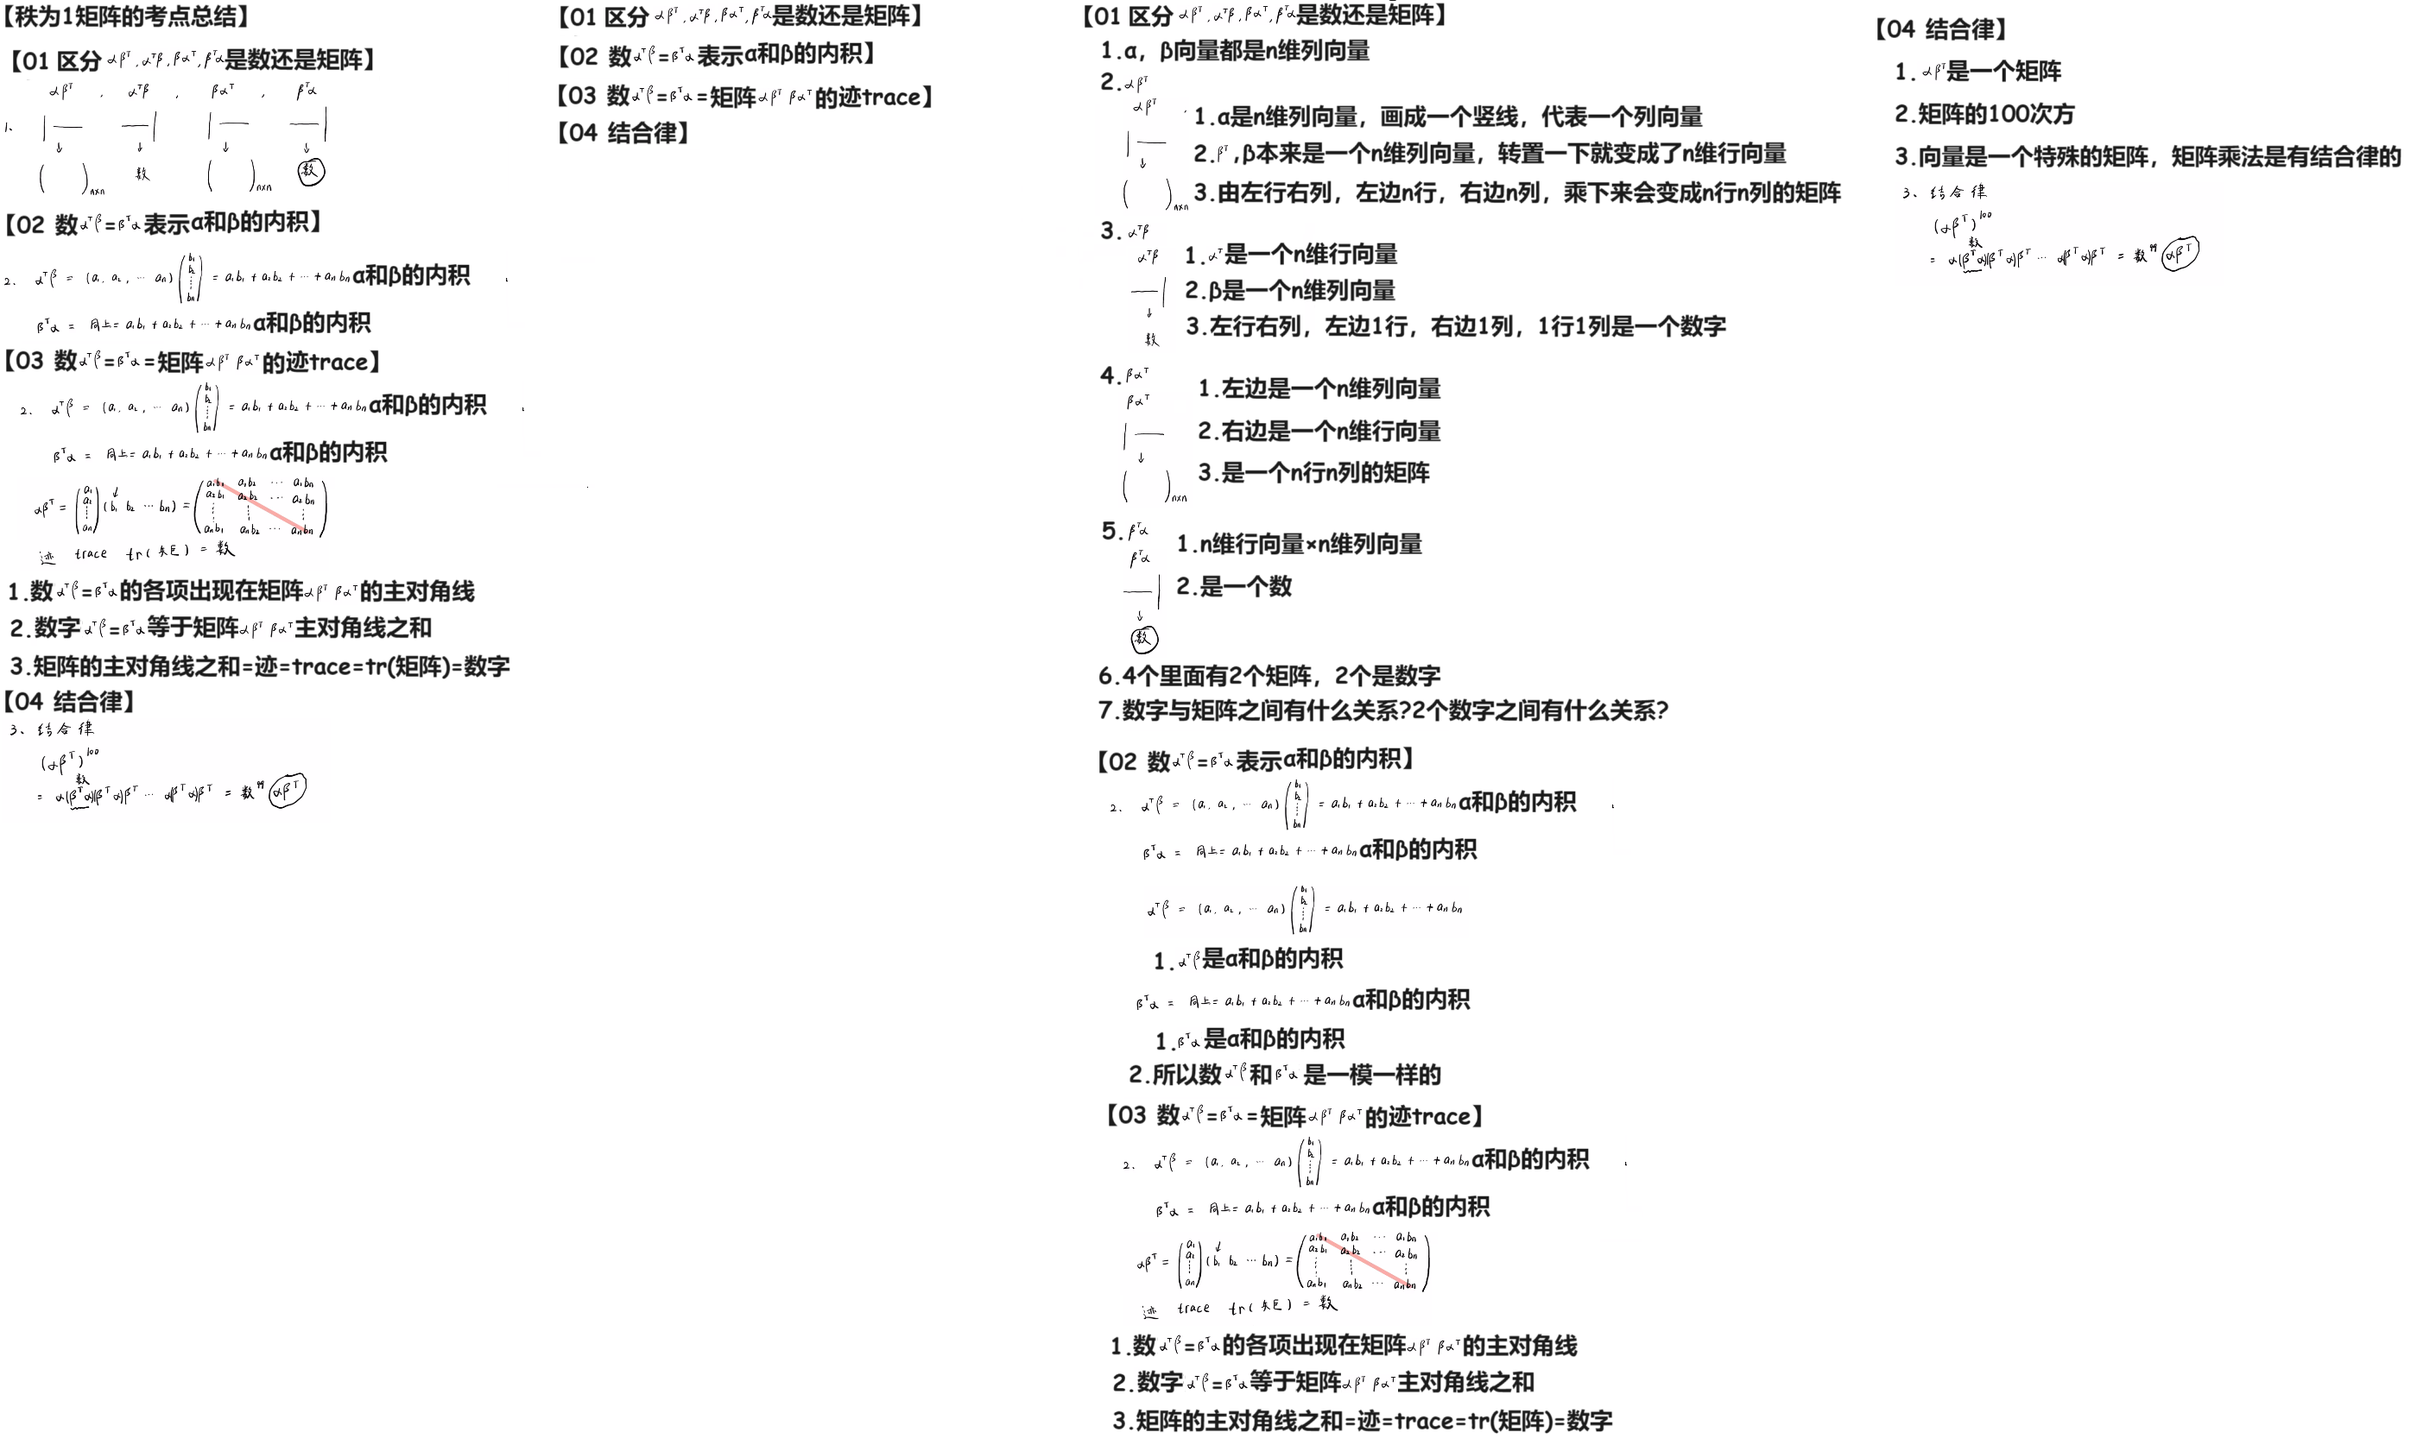
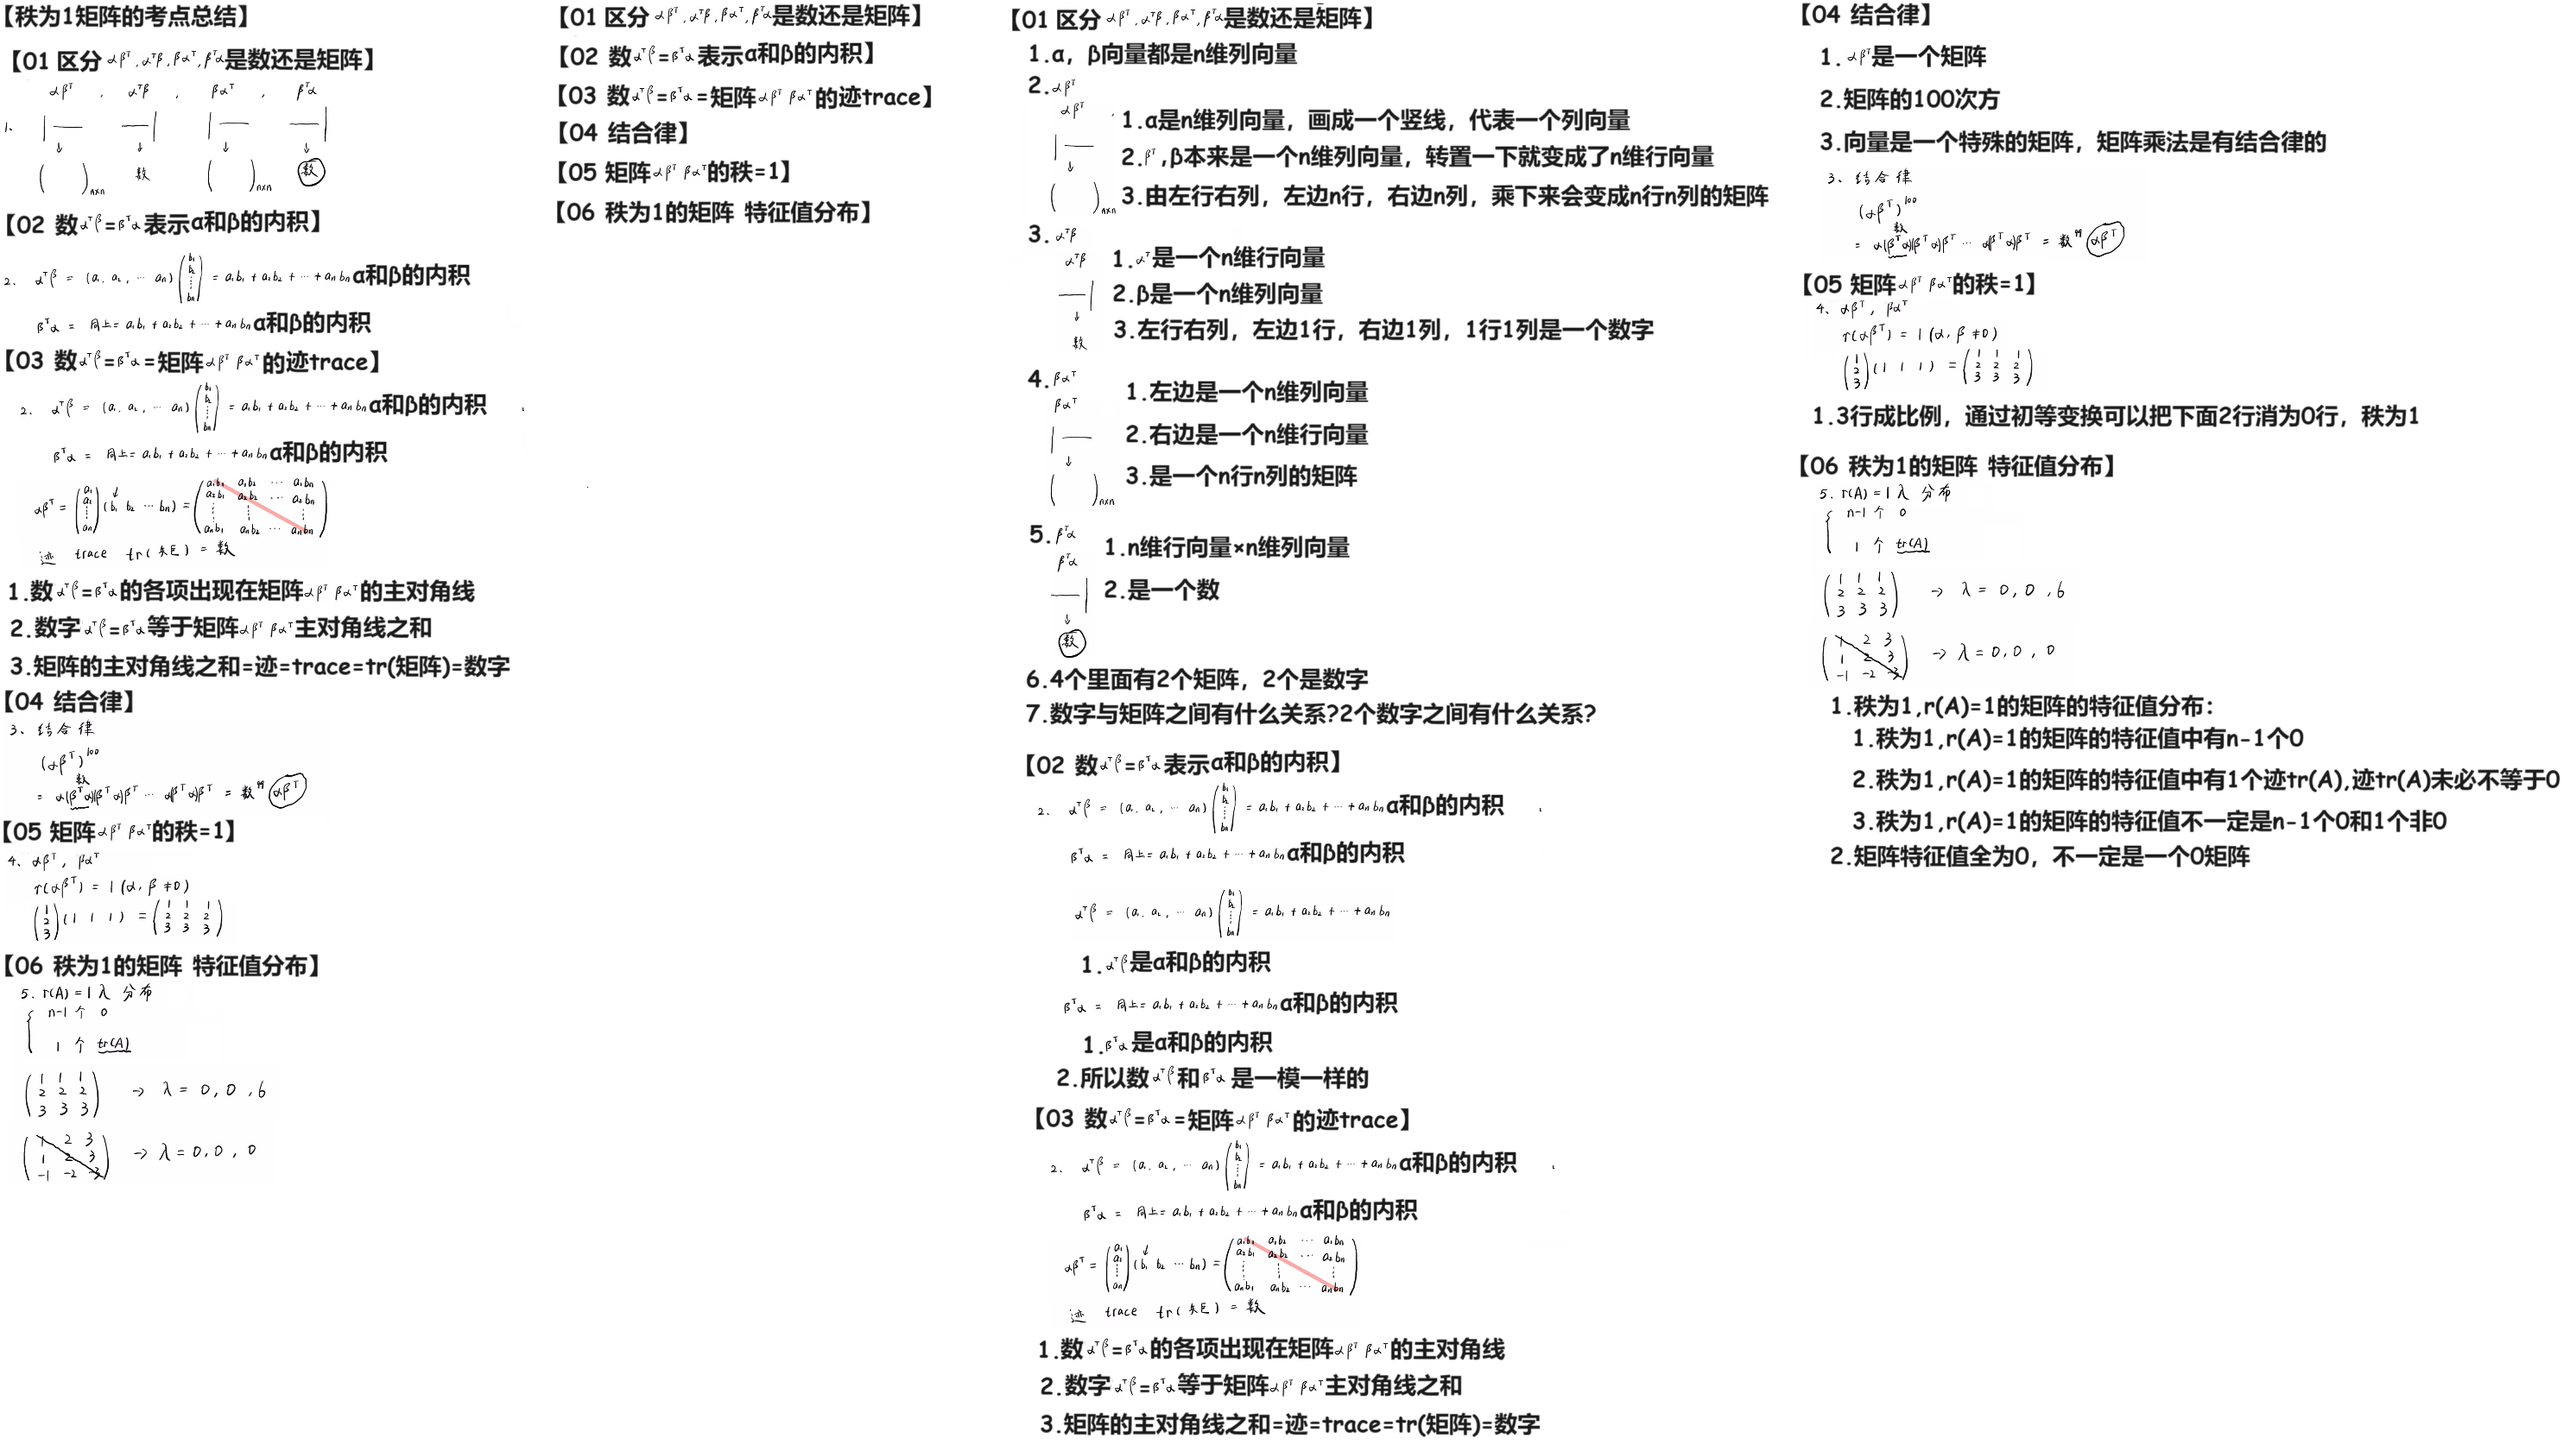
240311

diff --git a/02 线代/02 知识点/15 秩为1的矩阵 【B站 小崔说数】 240311/01 【B站 小崔说数】秩为1矩阵的考点总结/02 Doc.md b/02 线代/02 知识点/15 秩为1的矩阵 【B站 小崔说数】 240311/01 【B站 小崔说数】秩为1矩阵的考点总结/02 Doc.md
@@ -1,1 +1,3 @@
 # 秩为1矩阵的考点总结
+
+<img src="https://cvp.oss-cn-shanghai.aliyuncs.com/picgo/202403111708577.png" alt="image-20240311170831764" style="zoom:50%;" />

diff --git a/02 线代/02 知识点/11 0向量 0矩阵 240311/02 Doc.md b/02 线代/02 知识点/11 0向量 0矩阵 240311/02 Doc.md
@@ -1,0 +1,3 @@
+# 0向量 0矩阵
+
+<img src="https://cvp.oss-cn-shanghai.aliyuncs.com/picgo/202403111713144.png" alt="image-20240311171343926" style="zoom:50%;" />
